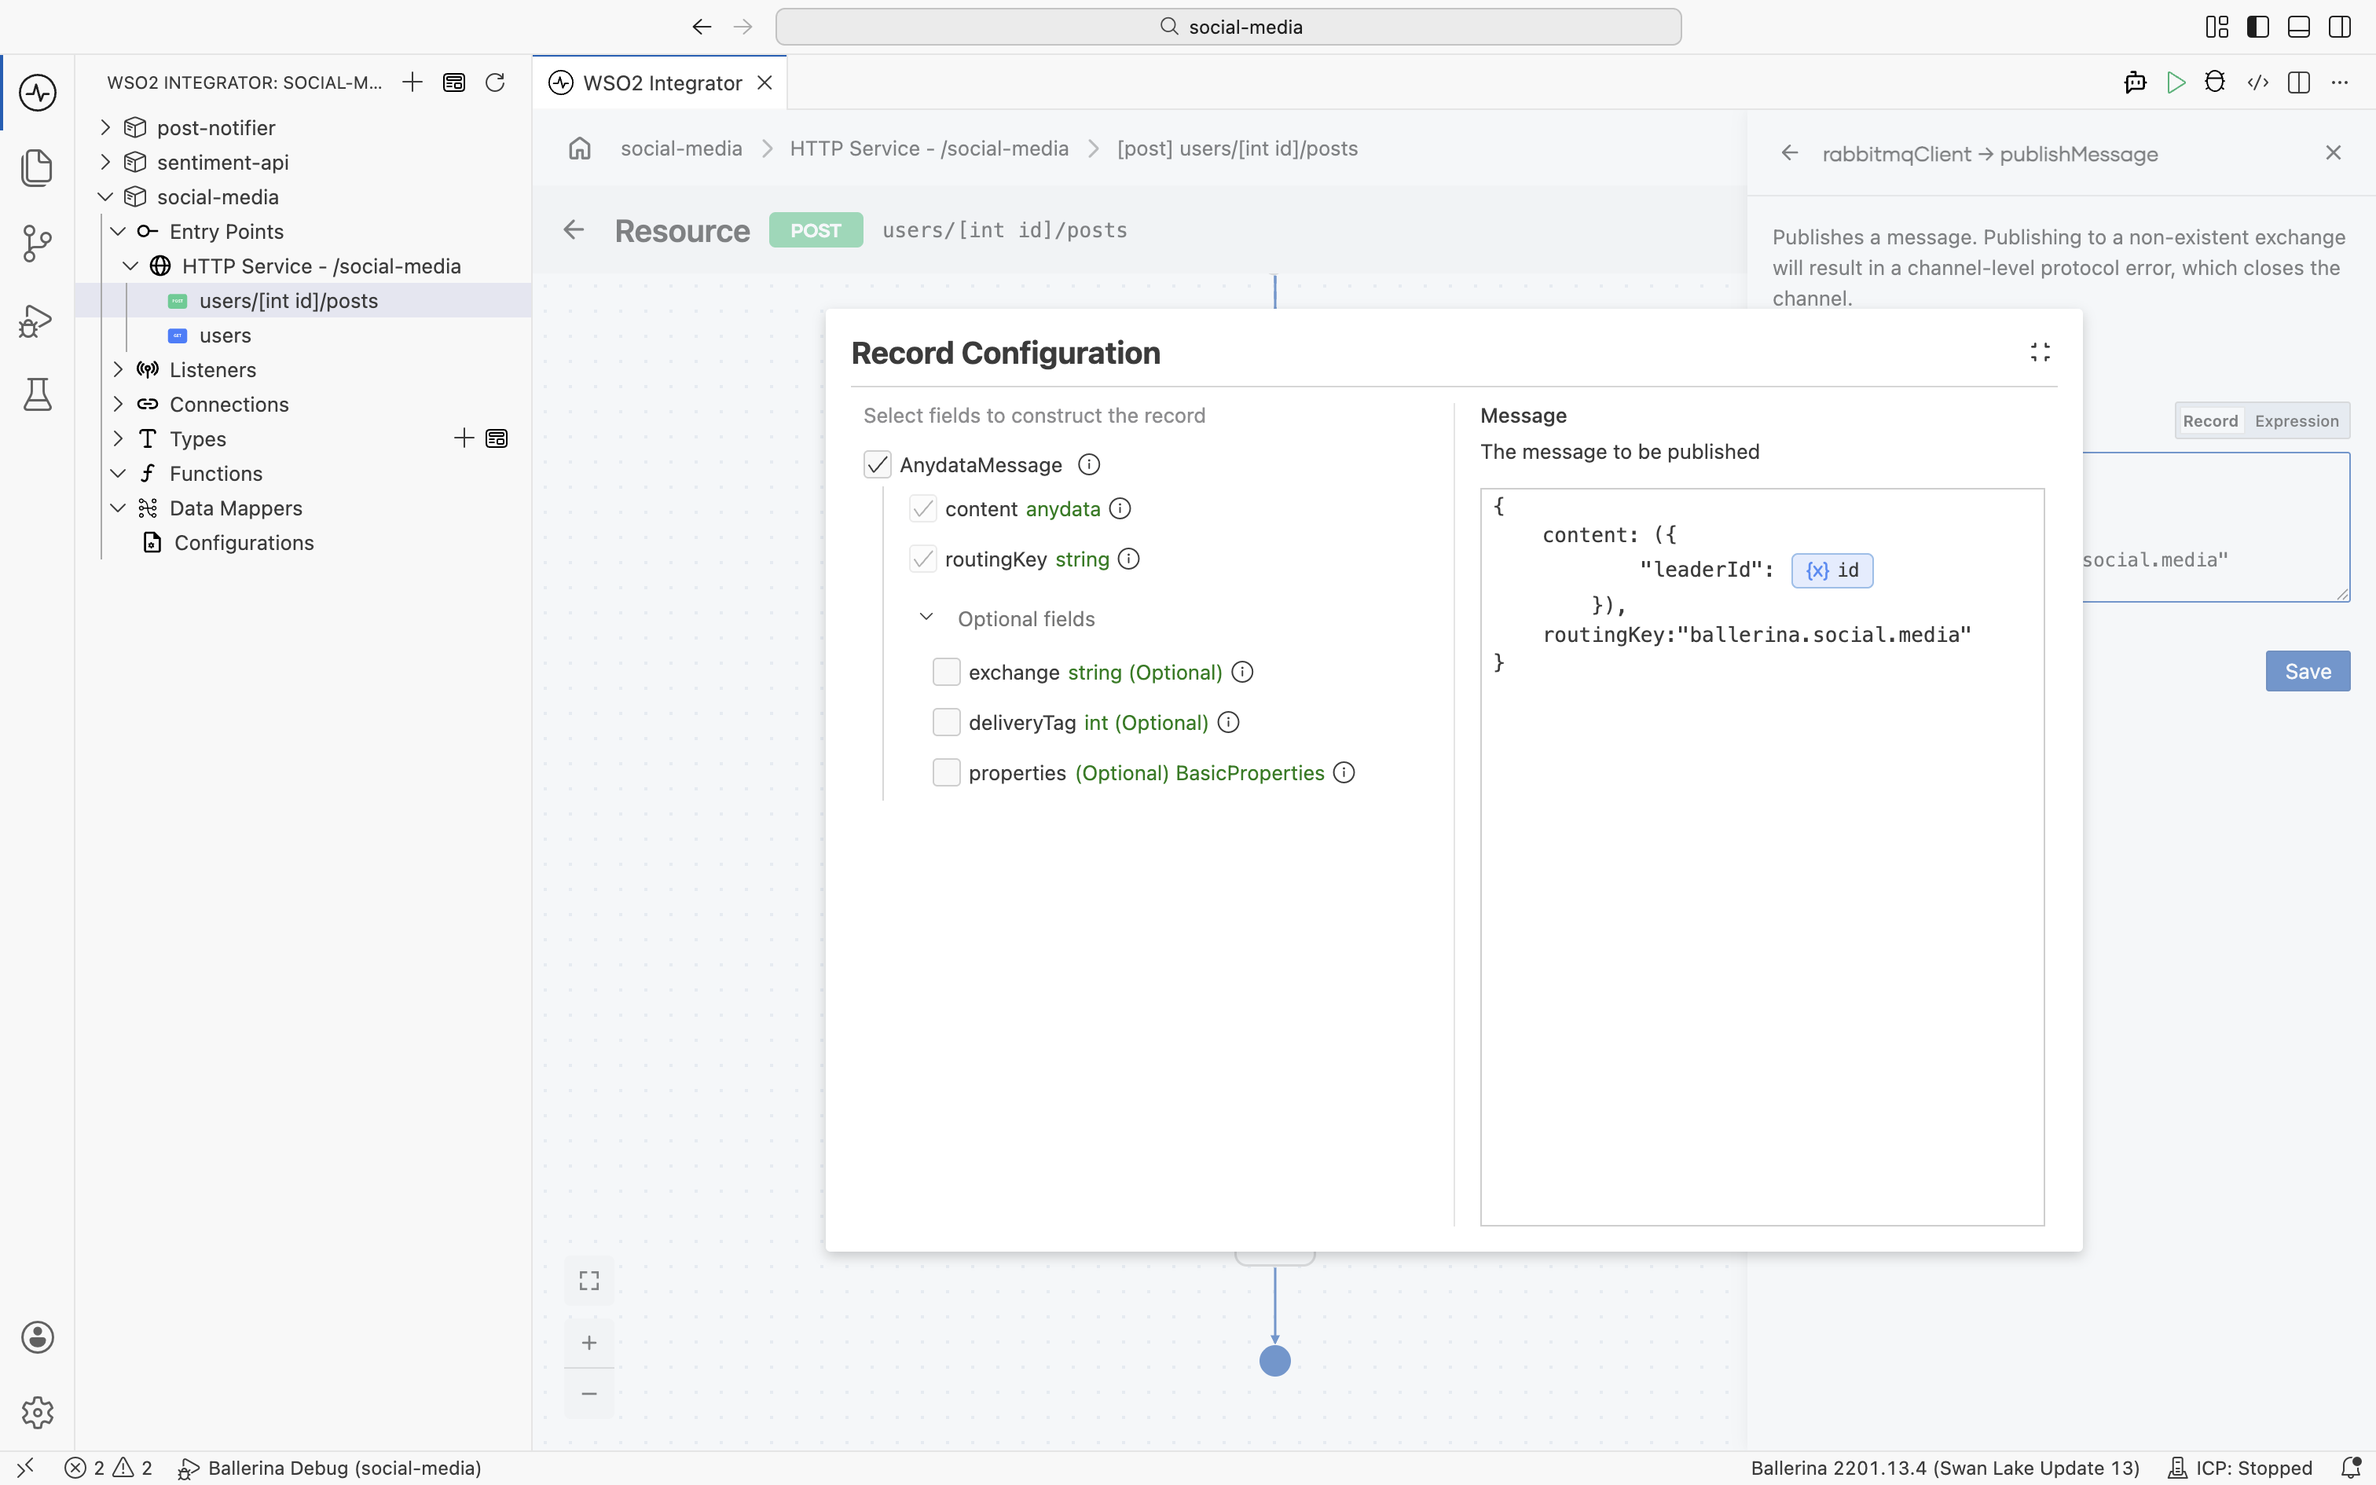
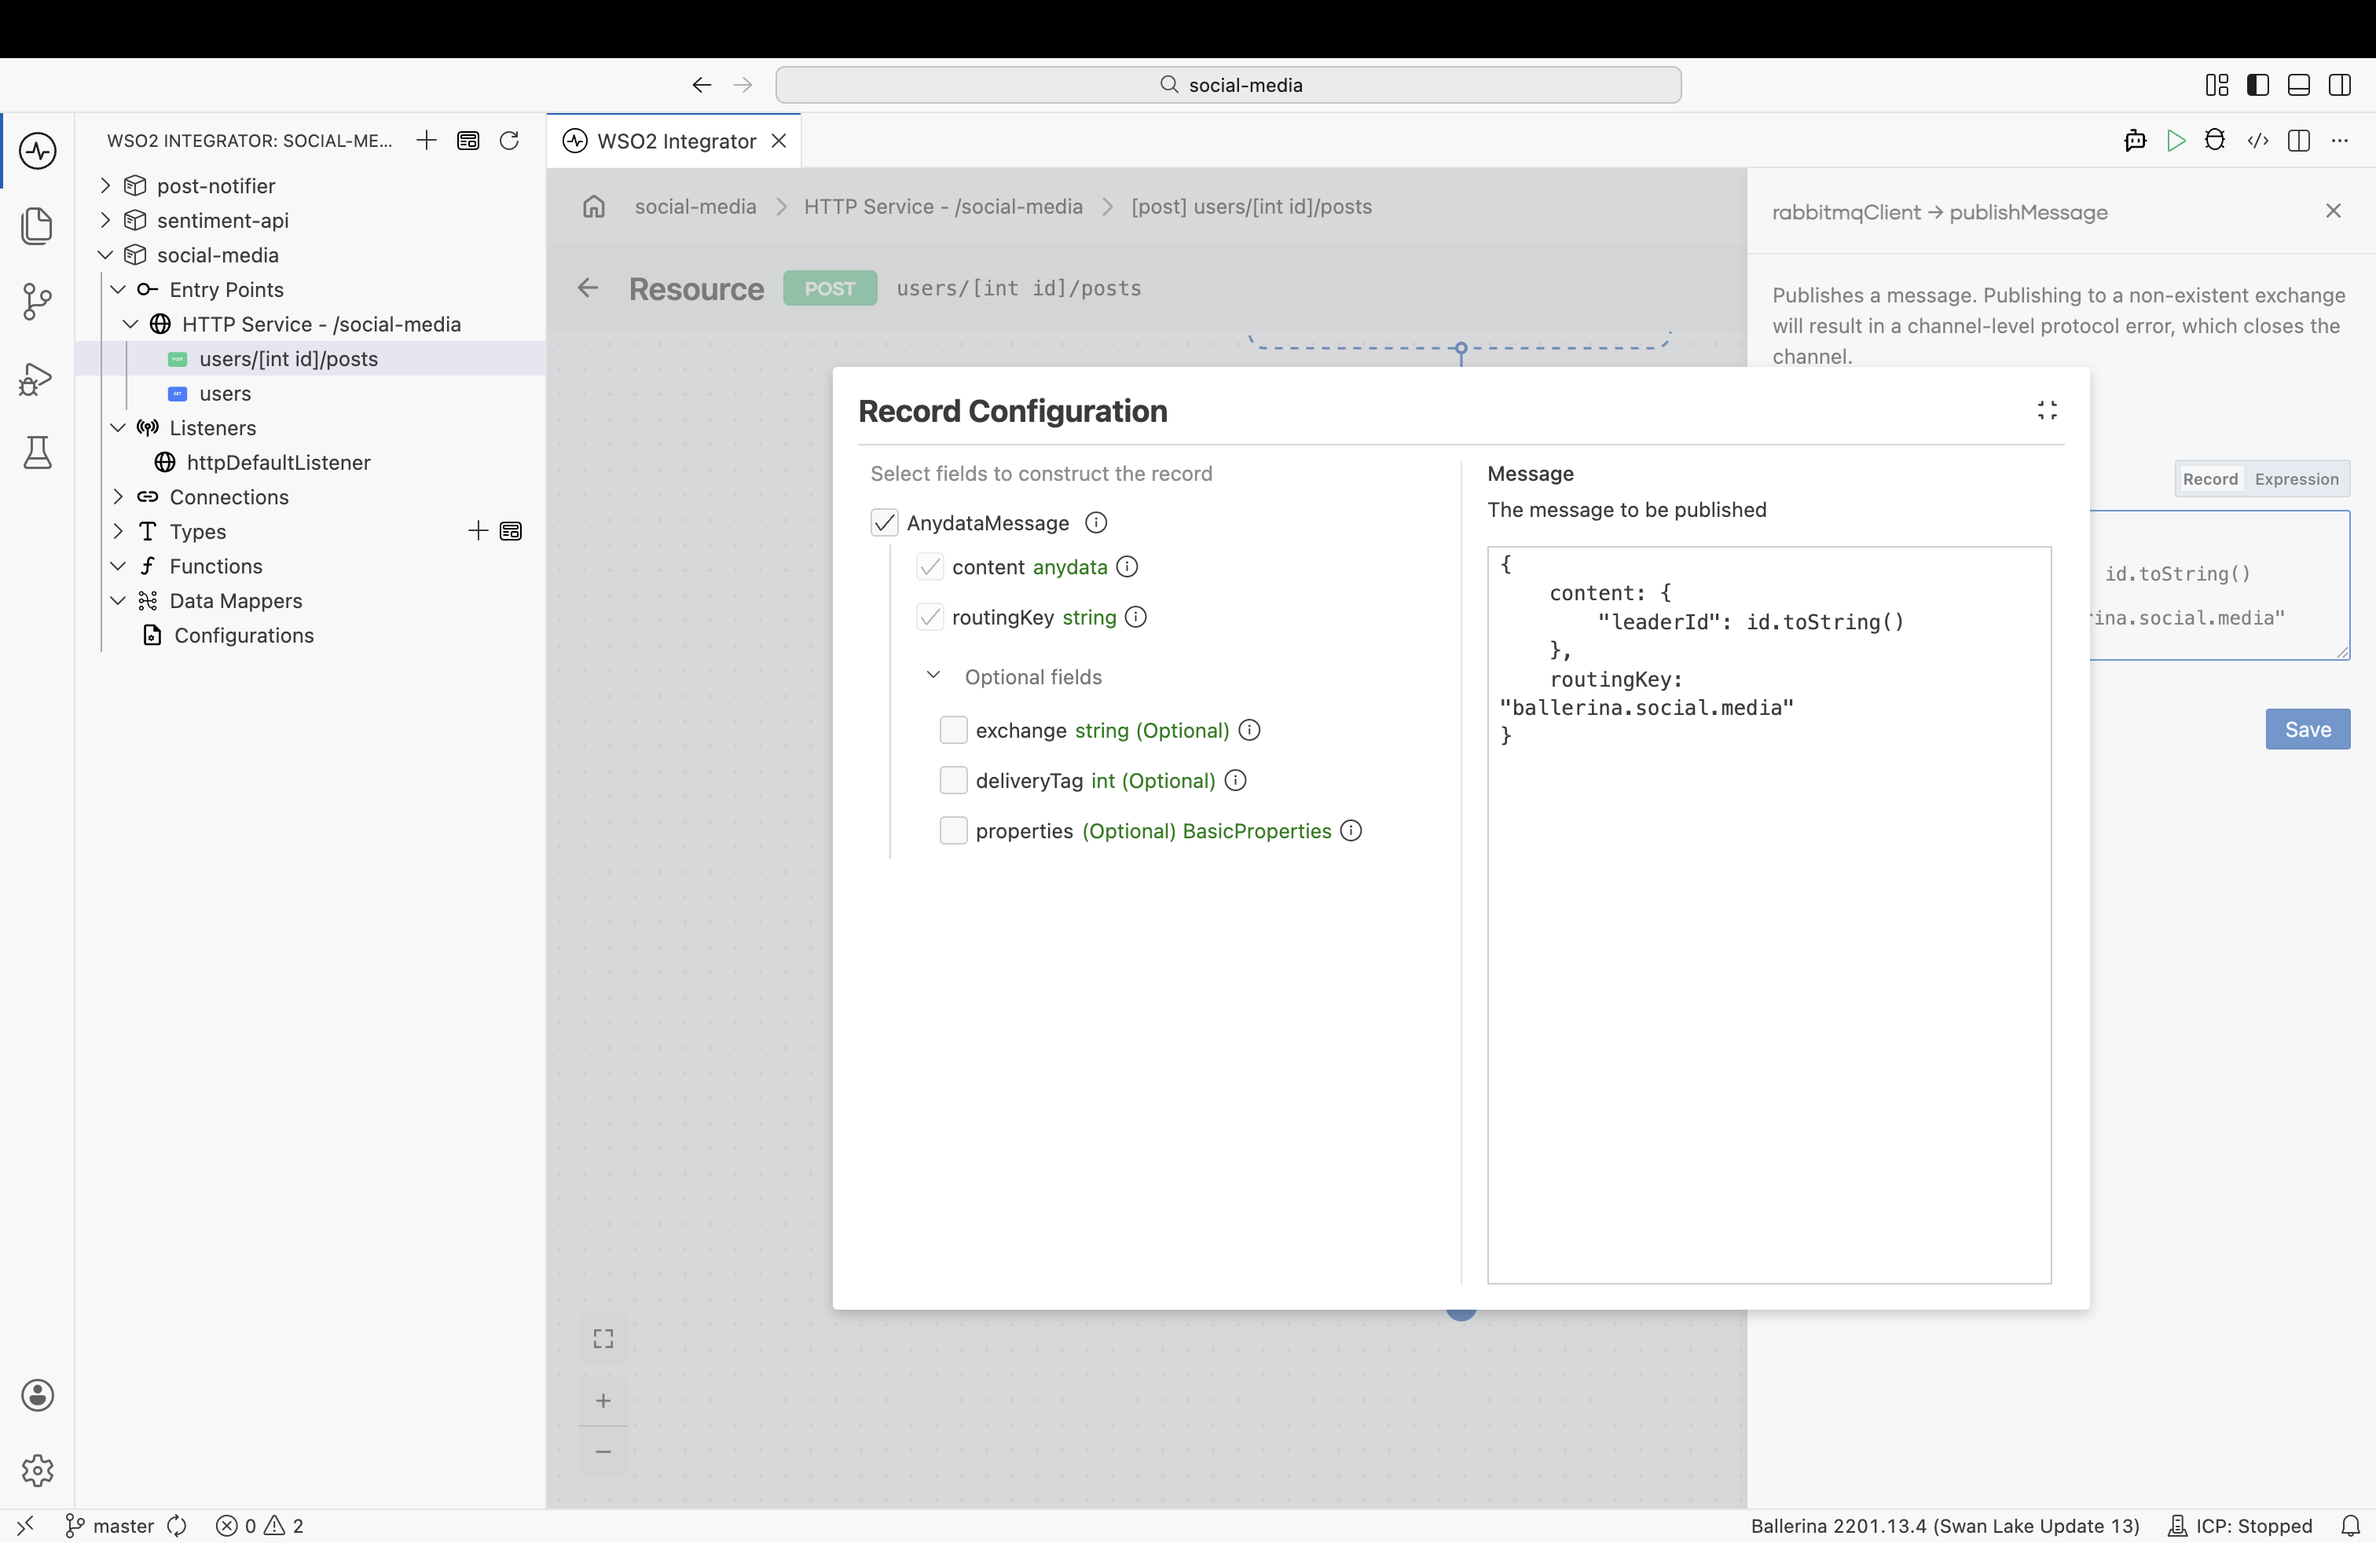
Address PR suggestions

diff --git a/en/sidebars.ts b/en/sidebars.ts
@@ -1873,12 +1873,12 @@ const sidebars: SidebarsConfig = {
             'guides/migration/from-tibco',
           ],
         },
-        //Tutorials
+        // Tutorials
         {
           type: 'category',
           label: 'Tutorials',
           items: [
-            'guides/tutorials/social-media'          
+            'guides/tutorials/social-media',         
           ],
         },
       ],

diff --git a/en/docs/guides/tutorials/social-media.md b/en/docs/guides/tutorials/social-media.md
@@ -480,7 +480,7 @@ This is the resource that ties everything together. When someone posts, you conf
 <TabItem value="code" label="Ballerina Code">
 
 ```ballerina
-import pasindufernando/sentiment_api; // reuse the Sentiment API's request and response types
+import social_media/sentiment_api; // reuse the Sentiment API's request and response types
 
 resource function post users/[int id]/posts(@http:Payload NewPost newPost)
         returns http:Created|http:NotAcceptable|http:NotFound|error {
@@ -494,7 +494,7 @@ resource function post users/[int id]/posts(@http:Payload NewPost newPost)
 
         // 2. Screen the text with the Sentiment API (406 if negative)
         sentiment_api:Post postMessage = {text: newPost.description};
-        sentiment_api:Sentiment sentiment = check sentimentClient->post("/api/sentiment", [postMessage]);
+        sentiment_api:Sentiment sentiment = check sentimentClient->post("/api/sentiment", postMessage);
         if sentiment.label == "neg" {
             http:NotAcceptable postForbidden = {body: {msg: "Post not acceptable"}};
             return postForbidden;
@@ -513,7 +513,7 @@ resource function post users/[int id]/posts(@http:Payload NewPost newPost)
 
         // 4. Announce it on the queue the Post Notifier listens to
         check rabbitmqClient->publishMessage({
-            content: {"leaderId": id},
+            content: {"leaderId": id.toString()},
             routingKey: "ballerina.social.media"
         });
 
